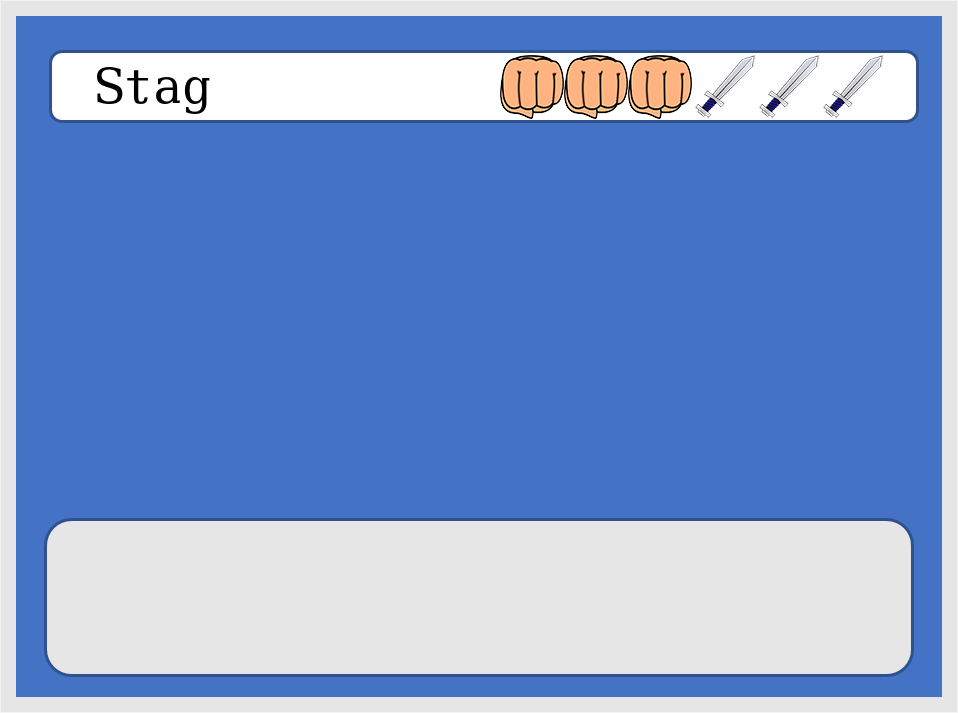
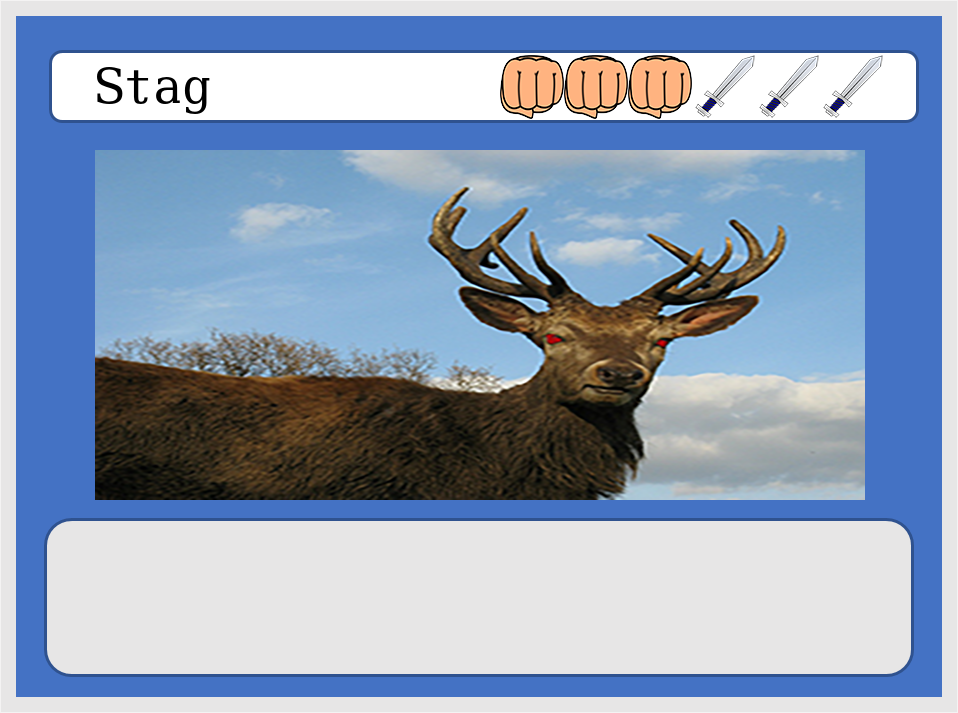
Finish creatures (actual)

diff --git a/update.py b/update.py
@@ -23,6 +23,8 @@ CREATURE_HEALTH_LOCATION = (40, 280)
 CREATURE_TEXT_LOCATION = (70, 530)
 CREATURE_RIGHT_BAR_LOCATION = (820,55) #The far right side of the name bar
 CREATURE_TOKEN_WIDTH = 64 #Size of a health token
+CREATURE_ART_LOCATION = (95, 150)
+
 
 TEXT_RESOLUTION = 42 #Vertical distance between lines
 CREATURE_TEXT_WIDTH = 42
@@ -61,13 +63,12 @@ for i in range(2,sheet.max_row + 1):
 	#Creature
 	if sheet.cell(row=i,column=COLUMN_TYPE).value == "Creature":
 	
-		#Draw NAME
+		#Draw name
 		draw.text(CREATURE_NAME_LOCATION, str(sheet.cell(row=i,column=COLUMN_NAME).value), TEXT_COLOR, font=creature_name_font)
 		
+		#Draw health tokens
 		health = str(sheet.cell(row=i, column=COLUMN_HEALTH).value).split(',')
-		
 		offset = CREATURE_TOKEN_WIDTH
-		
 		for x in range(0, len(health)):
 			offset = offset - CREATURE_TOKEN_WIDTH
 			health[x] = health[x].strip()
@@ -81,7 +82,12 @@ for i in range(2,sheet.max_row + 1):
 
 		img.close()
 
-
+		
+		#Draw art
+		img = Image.open('art/' + str(sheet.cell(row=i, column=COLUMN_NAME).value) + '.png')
+		background.paste(img, CREATURE_ART_LOCATION)
+		
+		
 		#Text wrap
 		if sheet.cell(row=i,column=COLUMN_TEXT).value is not None:
 			text = textwrap.wrap(str(sheet.cell(row=i,column=COLUMN_TEXT).value), width=CREATURE_TEXT_WIDTH)
